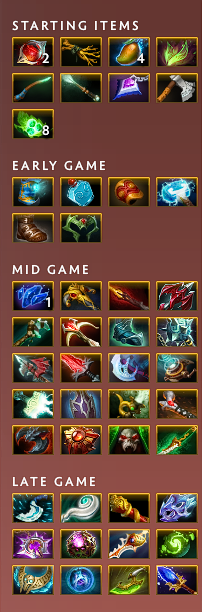
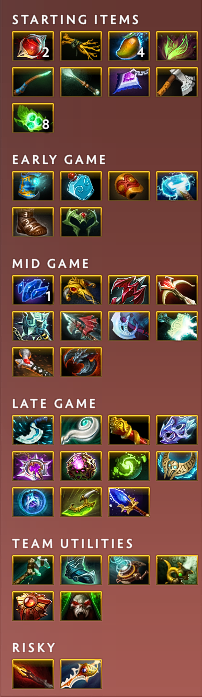
Addition of categories, renaming of legacy project name in builds

diff --git a/converter.py b/converter.py
@@ -3,7 +3,8 @@ import datetime
 import json
 import os
 
-removedItems = ["ignore", "component"]
+removed_items = ["ignore", "component"]
+categorized_items = ["team", "risky"]
 
 
 def search_csv(file_path, search_string):
@@ -27,9 +28,9 @@ def convert_scrape_to_guide(hero_id):
         hero_data = json.load(f)
 
     guide_name = search_csv("constants/heroes.csv", hero_id)
-    author = "OpenDotaGuides"
+    author = "ScrapedDotaGuides"
     hero = f"npc_dota_hero_{guide_name}"
-    title = f"ODG {datetime.date.today().isoformat()}"
+    title = f"SDG {datetime.date.today().isoformat()}"
     hero_stages = []
     for stage in hero_data:
         hero_stage = []
@@ -39,15 +40,23 @@ def convert_scrape_to_guide(hero_id):
 
     hero_stages = remove_repeated_elements(hero_stages)
     modified_hero_stages = []
+    team_category = []
+    risky_category = []
     for stage in hero_stages:
         modified_hero_stage = []
         for item in stage:
-            if checkFlags("constants/items.csv", item) not in removedItems:
-                modified_hero_stage.append(item)
+            if checkFlags("constants/items.csv", item) not in removed_items:
+                if checkFlags("constants/items.csv", item) in categorized_items:
+                    if checkFlags("constants/items.csv", item) == "team":
+                        team_category.append(item)
+                    if checkFlags("constants/items.csv", item) == "risky":
+                        risky_category.append(item)
+                else:
+                    modified_hero_stage.append(item)
         modified_hero_stage.sort()
         modified_hero_stages.append(modified_hero_stage)
-
-        os.makedirs("itembuilds", exist_ok=True)
+    team_category.sort()
+    risky_category.sort()
 
     with open(f"itembuilds/default_{guide_name}.txt", "w", newline="") as file:
         file.write('"itembuilds"\n{\n')
@@ -71,6 +80,16 @@ def convert_scrape_to_guide(hero_id):
         for item in modified_hero_stages[3]:
             file.write(f'\t\t\t"item"\t\t"{item}"\n')
         file.write("\t\t}\n")
+        if team_category != []:
+            file.write('\t\t"TEAM UTILITIES"\n\t\t{\n')
+            for item in team_category:
+                file.write(f'\t\t\t"item"\t\t"{item}"\n')
+            file.write("\t\t}\n")
+        if team_category != []:
+            file.write('\t\t"RISKY"\n\t\t{\n')
+            for item in risky_category:
+                file.write(f'\t\t\t"item"\t\t"{item}"\n')
+            file.write("\t\t}\n")
         file.write("\t}\n")
         file.write("}")
 

diff --git a/readme.md b/readme.md
@@ -38,5 +38,10 @@ Assuming you already have python and git installed:
 
 ## TODO
 
+- [ ] Classify heroes as melee/ranged don't insert items that don't work or not work in full effect
+  - Exceptions: Terrorblade, Troll Warlord, Vengeful Spirit
+- [ ] Add item display names to `items.csv` and sort items based on it (looking at you, angels_demise)
+- [x] Categorize items like pipe, crimson guard in `team` category (items that you manage who should be the carrier or just support items like solar crest, glimmer cape)
 - [ ] Cache page data via selenium if possible
+- [ ] Use any webdriver rather than just firefox
 - [ ] Create a function that automatically builds `constants/items.csv` by accessing vpk and inject flags from another csv
